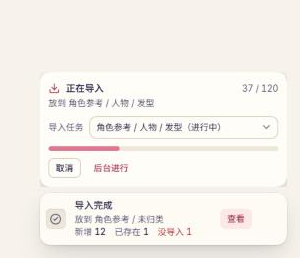
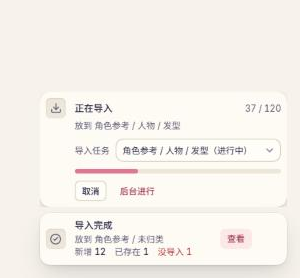
style(import): 导入任务卡与轻提示同一套外观（#388）
磨砂底、圆角、阴影、28 px 图标凹槽与 13 px 标题都取轻提示的；正文对齐标题，只有出错时图标着色。

diff --git a/src/ui/dialogs.css b/src/ui/dialogs.css
@@ -81,20 +81,25 @@
 .k-task-cards { position: fixed; right: 18px; bottom: calc(18px + var(--k-toast-stack, 0px)); z-index: 50; width: 340px; max-width: calc(100vw - 36px); max-height: calc(100vh - 100px);
   overflow: auto; display: flex; flex-direction: column; gap: 8px; pointer-events: none; }
 .k-task-cards:empty { display: none; }
-.k-task { pointer-events: auto; padding: 12px; border-radius: var(--r-l); background: var(--surface); color: var(--ink); box-shadow: var(--shadow-pop); }
-.k-task.is-row { display: flex; align-items: center; gap: 10px; }
-.k-task-top { display: flex; align-items: center; gap: 8px; }
-.k-task-top b { flex: 1; font-weight: 600; }
-.k-task-icon { flex: none; color: var(--ink-2); }
-.k-task-icon.is-accent { color: var(--accent-strong); }
-.k-task-icon.is-ok { color: var(--ok); }
+/* Same material and type as a toast (toast.css): a frosted card, the icon in a 28 px well, a 13 px title; the body lines up
+   under the title, past the icon well. Only an error tints the icon (#388). */
+.k-task { pointer-events: auto; box-sizing: border-box; padding: 8px; border-radius: var(--r-l); color: var(--ink);
+  background: color-mix(in srgb, var(--surface) 82%, transparent); backdrop-filter: blur(20px) saturate(1.2); box-shadow: var(--shadow-toast); }
+.k-task:not(.is-row) { padding-left: 48px; }
+.k-task:not(.is-row) > .k-task-top { margin-left: -40px; }
+.k-task.is-row { display: flex; align-items: center; gap: 12px; font-size: 13px; }
+.k-task-top { display: flex; align-items: center; gap: 12px; min-height: 28px; }
+.k-task-top b { flex: 1; min-width: 0; font-size: 13px; font-weight: 500; line-height: 20px; }
+.k-task-icon { flex: none; box-sizing: content-box; padding: 6px; border-radius: var(--r-s); background: var(--sunken); box-shadow: var(--well-inset); color: var(--ink-2); }
 .k-task-icon.is-error { color: var(--danger); }
+.k-task-top .k-icon-btn.is-sm { width: 28px; height: 28px; border-radius: var(--r-s); color: var(--ink-3); }
+.k-task-top .k-icon-btn.is-sm:hover { background: var(--hover); color: var(--ink); }
 .k-task-count { color: var(--ink-2); font-size: 12px; font-variant-numeric: tabular-nums; }
 .k-task-sub { margin: 2px 0 0; color: var(--ink-2); font-size: 12px; line-height: 18px; overflow-wrap: anywhere; }
 .k-task-sub.is-warn { color: var(--warn); }
 .k-task-sub.is-danger, .k-task-stats .is-danger, .k-task-stats .is-danger b { color: var(--danger); }
-.k-task-stats { display: flex; flex-wrap: wrap; gap: 4px 14px; margin: 8px 0 0; font-size: 12px; color: var(--ink-2); }
-.k-task-stats b { color: var(--ink); font-weight: 600; font-variant-numeric: tabular-nums; }
+.k-task-stats { display: flex; flex-wrap: wrap; gap: 4px 12px; margin: 4px 0 0; font-size: 12px; color: var(--ink-2); }
+.k-task-stats b { color: var(--ink); font-weight: 500; font-variant-numeric: tabular-nums; }
 .k-task-acts { display: flex; gap: 8px; margin-top: 10px; }
 .k-task-more { margin-top: 6px; font-size: 12px; color: var(--ink-2); }
 .k-task-more summary { cursor: pointer; }

diff --git a/src/ui/toast.styles.test.ts b/src/ui/toast.styles.test.ts
@@ -65,6 +65,15 @@ describe("轻提示是磨砂卡片（设计系统 v3）", () => {
     expect(rule(".k-toast-content[data-behind]").opacity).toBe("0");
   });
 
+  it("导入任务卡和轻提示同一套外观：磨砂底、圆角、阴影、图标凹槽与标题字号（#388）", () => {
+    const task = cssRule(dialogsCss, ".k-task");
+    for (const key of ["background", "backdrop-filter", "border-radius", "box-shadow"]) expect(task[key]).toBe(toast[key]);
+    const icon = cssRule(dialogsCss, ".k-task-icon"), toastIcon = rule(".k-toast-icon");
+    for (const key of ["background", "box-shadow", "border-radius", "color"]) expect(icon[key]).toBe(toastIcon[key]);
+    expect(cssRule(dialogsCss, ".k-task-top b")["font-size"]).toBe(rule(".k-toast-title")["font-size"]);
+    expect(cssRule(dialogsCss, ".k-task-top b")["font-weight"]).toBe(rule(".k-toast-title")["font-weight"]);
+  });
+
   it("减少动画时不过渡", () => {
     expect(rule(":root[data-reduced-motion] .k-toasts, :root[data-reduced-motion] .k-toast")["transition-duration"]).toBe("0ms");
   });

diff --git a/src/library/ImportBarParts.tsx b/src/library/ImportBarParts.tsx
@@ -78,7 +78,7 @@ export function ImportResultCard({ report, finished, owner, taskSwitcher, cardNo
   return (
   <section className="k-task" aria-label="导入结果">
     <div className="k-task-top">
-      {report.cancelled ? <CircleSlash size={16} className="k-task-icon" aria-hidden="true" /> : <CircleCheck size={16} className="k-task-icon is-ok" aria-hidden="true" />}
+      {report.cancelled ? <CircleSlash size={16} className="k-task-icon" aria-hidden="true" /> : <CircleCheck size={16} className="k-task-icon" aria-hidden="true" />}
       <b>{report.cancelled ? "导入已取消" : "导入完成"}</b>
       <button type="button" className="k-icon-btn is-sm" aria-label="关闭导入结果" onClick={onDismissReport}><X size={14} aria-hidden="true" /></button>
     </div>

diff --git a/src/library/ImportBar.tsx b/src/library/ImportBar.tsx
@@ -276,7 +276,7 @@ export function ImportBar({ previewContextKey, enabled, libraryId, libraryName, 
     ))}
     {running && !minimized && (
       <section className="k-task" aria-label="导入进度">
-        <div className="k-task-top"><Download size={16} className="k-task-icon is-accent" aria-hidden="true" /><b>正在导入</b>
+        <div className="k-task-top"><Download size={16} className="k-task-icon" aria-hidden="true" /><b>正在导入</b>
           <span className="k-task-count tabular">{done} / {total}</span></div>
         {owner && <p className="k-task-sub">放到 {owner}</p>}
         {taskSwitcher}
